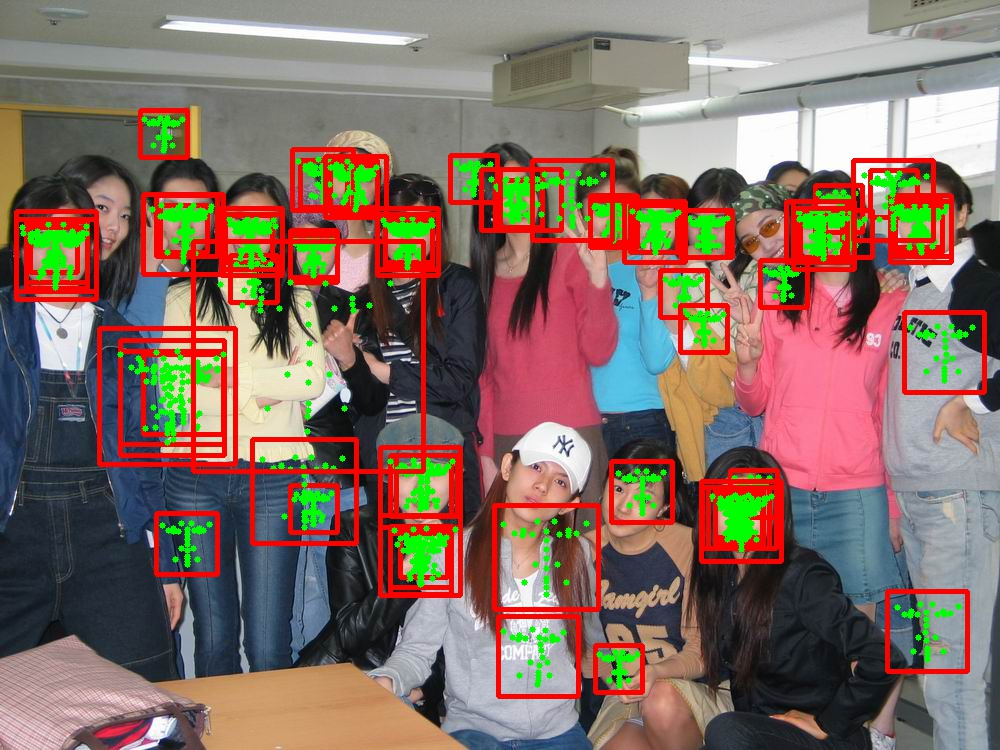
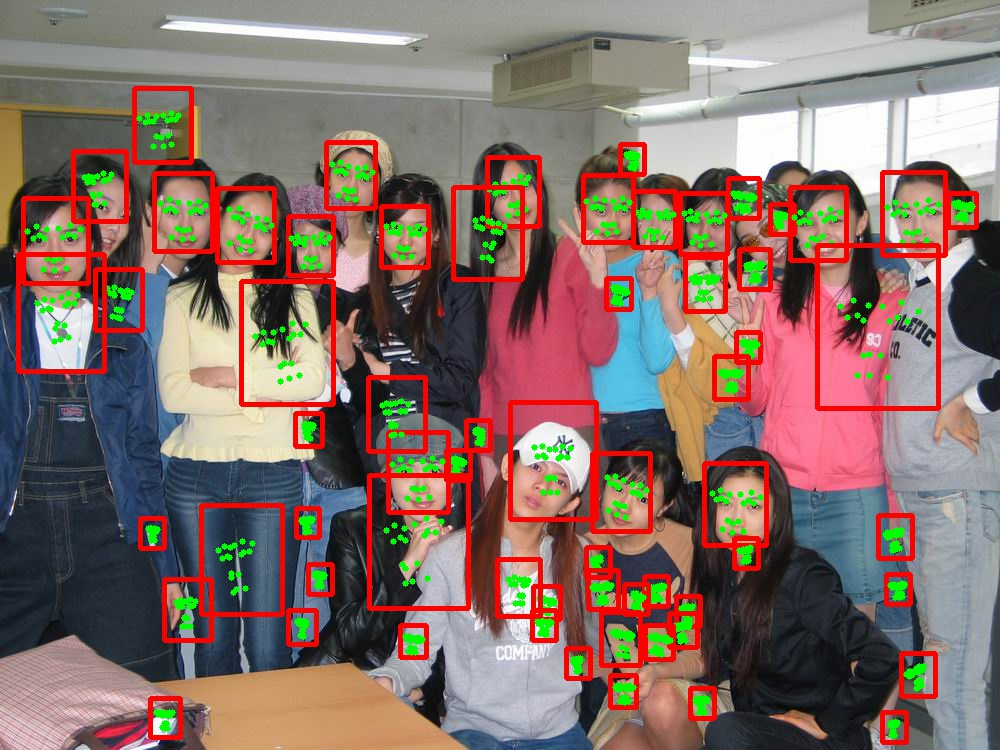
show result

Changed region(s): [[0.0, 0.092, 0.992, 0.9813], [0.868, 0.6747, 0.992, 1.0], [0.124, 0.92, 0.186, 1.0]]

diff --git a/src/jda/data.cpp b/src/jda/data.cpp
@@ -173,7 +173,7 @@ void DataSet::UpdateWeights() {
   omp_set_num_threads(c.numThreads);
   #pragma omp parallel for
   for (int i = 0; i < size; i++) {
-    weights[i] = exp(flag*scores[i]);
+    weights[i] = std::min(100.0,exp(flag*scores[i]));
   }
 }
 void DataSet::UpdateWeights(DataSet& pos, DataSet& neg) {
@@ -387,46 +387,44 @@ Mat DataSet::NextImage(int i) {
             factor[i] = 1.+(double)(rand()%50)/100.0;
             step[i] = 12+rand()%12;
           }
-          else{
-            switch(tranType[i]){
-              case 0:
-                break;
-              case 1:
-                flip(NegImgs[i], NegImgs[i], 0);
-                transpose(NegImgs[i], NegImgs[i]);
-                break;
-              case 2:
-                flip(NegImgs[i], NegImgs[i], -1);
-                break;
-              case 3:
-                flip(NegImgs[i], NegImgs[i], 1);
-                transpose(NegImgs[i], NegImgs[i]);
-                break;
-              case 4:
-                flip(NegImgs[i], NegImgs[i], 1);
-                break;
-              case 5:
-                flip(NegImgs[i], NegImgs[i], -1);
-                transpose(NegImgs[i], NegImgs[i]);
-                break;
-              case 6:
-                flip(NegImgs[i], NegImgs[i], -1);
-                flip(NegImgs[i], NegImgs[i], 1);
-                break;
-              case 7:
-                flip(NegImgs[i], NegImgs[i], 0);
-                transpose(NegImgs[i], NegImgs[i]);
-                flip(NegImgs[i], NegImgs[i], 1);
-                break;
-              default:
-                printf("error type!\n");
-                break;
-            }
-          }
         }
         else{
           Mat tmg = imread(list[current_id[i]],CV_LOAD_IMAGE_GRAYSCALE);
           NegImgs[i] = tmg.clone();
+          switch(tranType[i]){
+            case 0:
+              break;
+            case 1:
+              flip(NegImgs[i], NegImgs[i], 0);
+              transpose(NegImgs[i], NegImgs[i]);
+              break;
+            case 2:
+              flip(NegImgs[i], NegImgs[i], -1);
+              break;
+            case 3:
+              flip(NegImgs[i], NegImgs[i], 1);
+              transpose(NegImgs[i], NegImgs[i]);
+              break;
+            case 4:
+              flip(NegImgs[i], NegImgs[i], 1);
+              break;
+            case 5:
+              flip(NegImgs[i], NegImgs[i], -1);
+              transpose(NegImgs[i], NegImgs[i]);
+              break;
+            case 6:
+              flip(NegImgs[i], NegImgs[i], -1);
+              flip(NegImgs[i], NegImgs[i], 1);
+              break;
+            case 7:
+              flip(NegImgs[i], NegImgs[i], 0);
+              transpose(NegImgs[i], NegImgs[i]);
+              flip(NegImgs[i], NegImgs[i], 1);
+              break;
+            default:
+              printf("error type!\n");
+              break;
+          }
         }
       }
     }

diff --git a/src/jda/cascador.cpp b/src/jda/cascador.cpp
@@ -262,13 +262,13 @@ static void detectMultiScale(const JoinCascador& joincascador, const Mat& img, \
                              vector<Rect>& rects, vector<double>& scores, \
                              vector<Mat_<double> >& shapes, DetectionStatisic& statisic) {
   const Config& c = Config::GetInstance();
-  const int win_w = c.img_o_size;
-  const int win_h = c.img_o_size;
+  const int win_w = c.img_q_size;
+  const int win_h = c.img_q_size;
   int width = img.cols;
   int height = img.rows;
   const double factor = c.fddb_scale_factor;
   double scale = 1.;
-  const int step = c.fddb_step;
+  int step = c.fddb_step;
   Mat img_ = img.clone();
 
   rects.clear();
@@ -276,6 +276,10 @@ static void detectMultiScale(const JoinCascador& joincascador, const Mat& img, \
   shapes.clear();
 
   while ((width >= win_w) && (height >= win_h)) {
+    if (win_w>40)
+      step = (int)floor(win_h*0.05);
+    else
+      step = (int)floor(win_h*0.1);
     vector<Rect> rects_;
     vector<double> scores_;
     vector<Mat_<double> > shapes_;
@@ -691,18 +695,18 @@ int JoinCascador::Detect(const Mat& img, vector<Rect>& rects, vector<double>& sc
   int imgWidth = img.cols;
   int imgHeight = img.rows;
 
-  for(int i = 0;i<picked.size();i++){
+  for(int i = 0;i<n;i++){
     int idx = picked[i];
     int delta = floor(Srect[idx]*0.1);
-    int y0 = max(rects_[idx].y - floor(3.0 * delta),0.);
-    int y1 = min(rects_[idx].y + Srect[idx],imgHeight);
-    int x0 = max(rects_[idx].x + floor(0.25 * delta),0.);
-    int x1 = min(rects_[idx].x + Srect[idx] - floor(0.25 * delta),(double)imgWidth);
+    int y0 = max(rects[i].y - floor(3.0 * delta),0.);
+    int y1 = min(rects[i].y + Srect[idx],imgHeight);
+    int x0 = max(rects[i].x + floor(0.25 * delta),0.);
+    int x1 = min(rects[i].x + Srect[idx] - floor(0.25 * delta),(double)imgWidth);
 
-    rects_[idx].y = y0;
-    rects_[idx].x = x0;
-    rects_[idx].width = x1-x0 + 1;
-    rects_[idx].height = y1-y0 + 1;
+    rects[i].y = y0;
+    rects[i].x = x0;
+    rects[i].width = x1-x0 + 1;
+    rects[i].height = y1-y0 + 1;
   }
 
   return n;

diff --git a/src/jda/cart.cpp b/src/jda/cart.cpp
@@ -82,7 +82,6 @@ void Cart::SplitNode(const DataSet& pos, const vector<int>& pos_idx, \
       }
     }
     
-//    scores[idx] = (pos_w-neg_w)/(pos_w+neg_w);
     scores[idx] = 0.5*(log(pos_w) - log(neg_w));
     printf("Leaf % 3d has % 7d pos and % 7d neg. Score is %.4lf\n", \
            node_idx, pos_n, neg_n, scores[idx]);
@@ -224,24 +223,12 @@ void Cart::SplitNodeWithClassification(const DataSet& pos, const vector<int>& po
       const double n_ratio = double(current_n) / neg_n;
       if (p_ratio < 0.1 || p_ratio > 0.9) continue;
       if (n_ratio < 0.1 || n_ratio > 0.9) continue;
-/*
-      float leftFit, rightFit;
-      if(wp_l + wn_l <= 0) leftFit = 0.0f;
-      else leftFit = (wp_l - wn_l) / (wp_l + wn_l);
-
-      if(wp_r + wn_r <= 0) rightFit = 0.0f;
-      else rightFit = (wp_r - wn_r) / (wp_r + wn_r);
-
-      float leftMSE = wp_l * (leftFit - 1) * (leftFit - 1) + wn_l * (leftFit + 1) * (leftFit + 1); 
-      float rightMSE = wp_r * (rightFit - 1) * (rightFit - 1) + wn_r * (rightFit + 1) * (rightFit + 1); 
-
-      float e = leftMSE + rightMSE;
-      */
 
       float w_l = wp_l + wn_l;
       float w_r = wp_r + wn_r;
       float e = (w_l / w)*calcEntropy(wp_l / w_l) + \
                   (w_r / w)*calcEntropy(wp_r / w_r);
+                  
       if (e < entropy) {
         entropy = e;
         threshold_ = th;

diff --git a/src/jda/btcart.cpp b/src/jda/btcart.cpp
@@ -172,7 +172,7 @@ void BoostCart::Train(DataSet& pos, DataSet& neg) {
     pos.QSort();
     neg.QSort();
     //cart.th = pos.CalcThresholdByNumber(drop_n);
-    cart.th = pos.CalcThresholdByNumber(0);
+    cart.th = pos.CalcThresholdByNumber(1);
     int pos_n = pos.size;
     int neg_n = neg.size;
     int will_removed = neg.PreRemove(cart.th);
